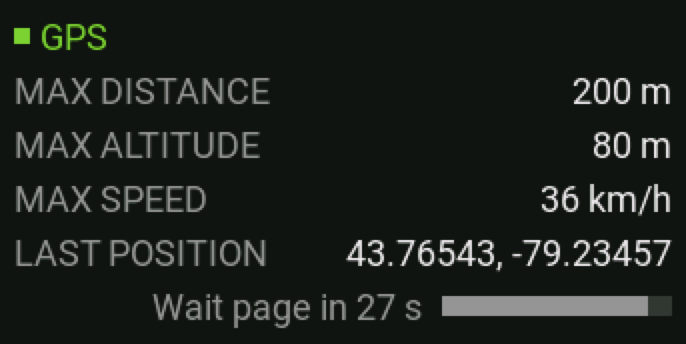
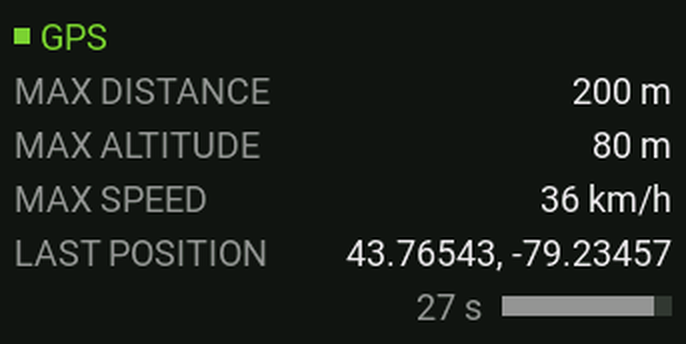
Colour levels from the core (satsLevel, satsBars, fixLevel, limitLevel with altExceeded / distExceeded), each guarded on its own; new README screenshots (TX16S MK3)

diff --git a/README.md b/README.md
@@ -200,7 +200,7 @@ For radios without a color display, or if you only want the voice announcements:
 ### 3. Try it out
 
 - Power the model and wait for the GPS fix. The radio's telemetry page should show values for `GPS`, `Sats`, `GSpd` and `Hdg`.
-- The widget shows the preflight page: satellites, GPS accuracy (PDOP or HDOP) and fix with `NO FIX` / `FIX SETTLING`. Once the fix is stable, the radio says "Ready to fly" and the page shows `GPS READY`; a bar at the bottom right counts down 15 s to the live view (arming switches at once).
+- The widget shows the preflight page: satellites, GPS accuracy (PDOP or HDOP) and fix with `NO FIX` / `FIX SETTLING`. Once the fix is stable, the radio says "Ready to fly" and the page shows `GPS READY` with a countdown beside it, 15 s to the live view (arming switches at once).
 - Arm the model: the radio says "Home set". Fly away: the distance grows and the arrow points back home.
 - Switch the model off: the widget shows the end page with the flight's highest distance, altitude and speed and its last position for 30 s. The coordinates stay in the flight log, see **Last flights** in Flight Bag.
 - With the function script you only hear the announcements.
